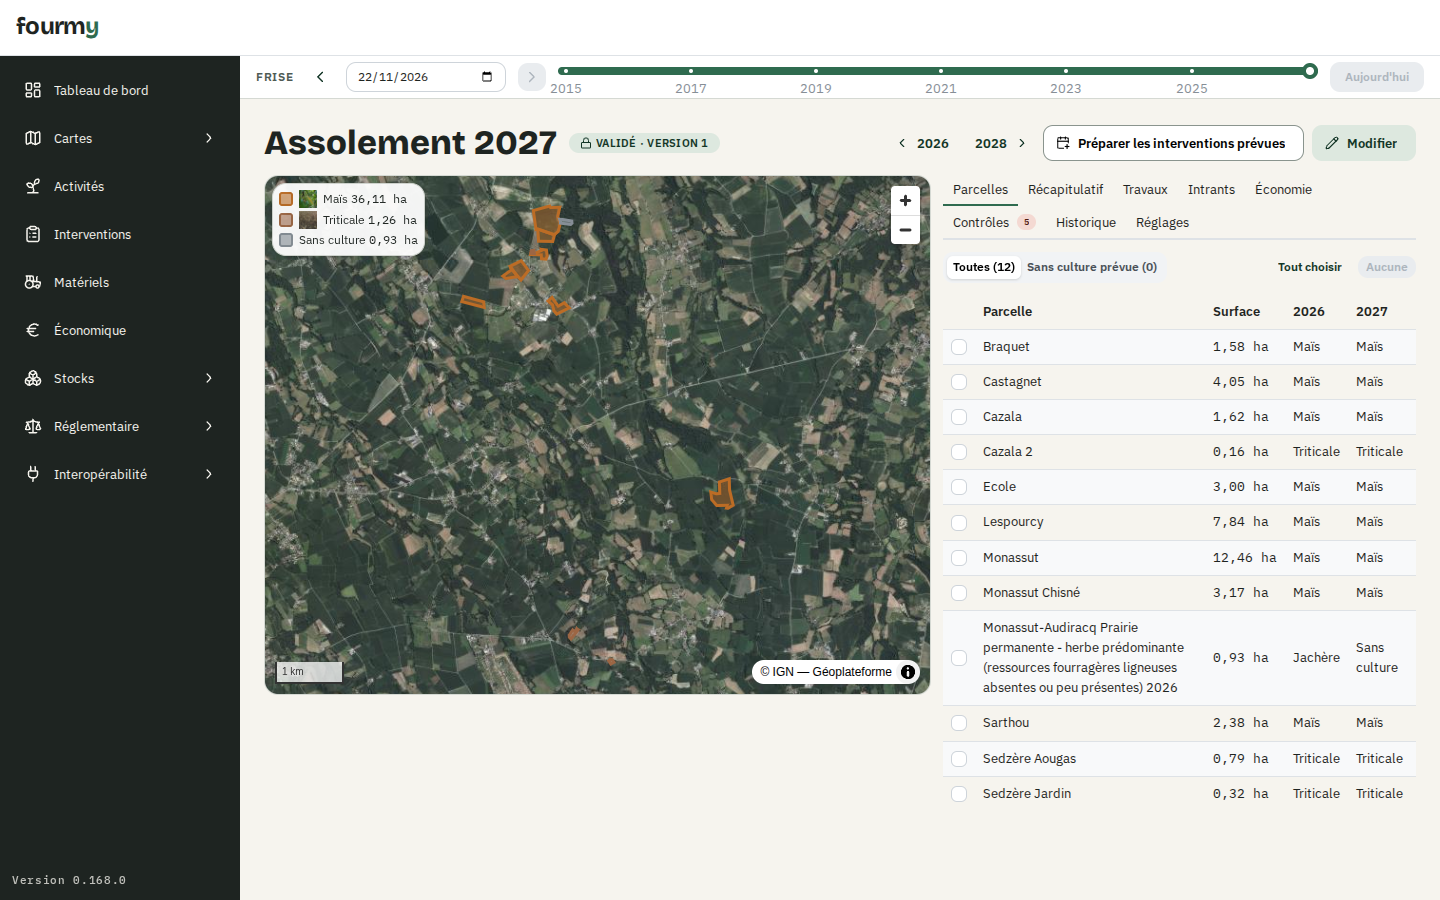
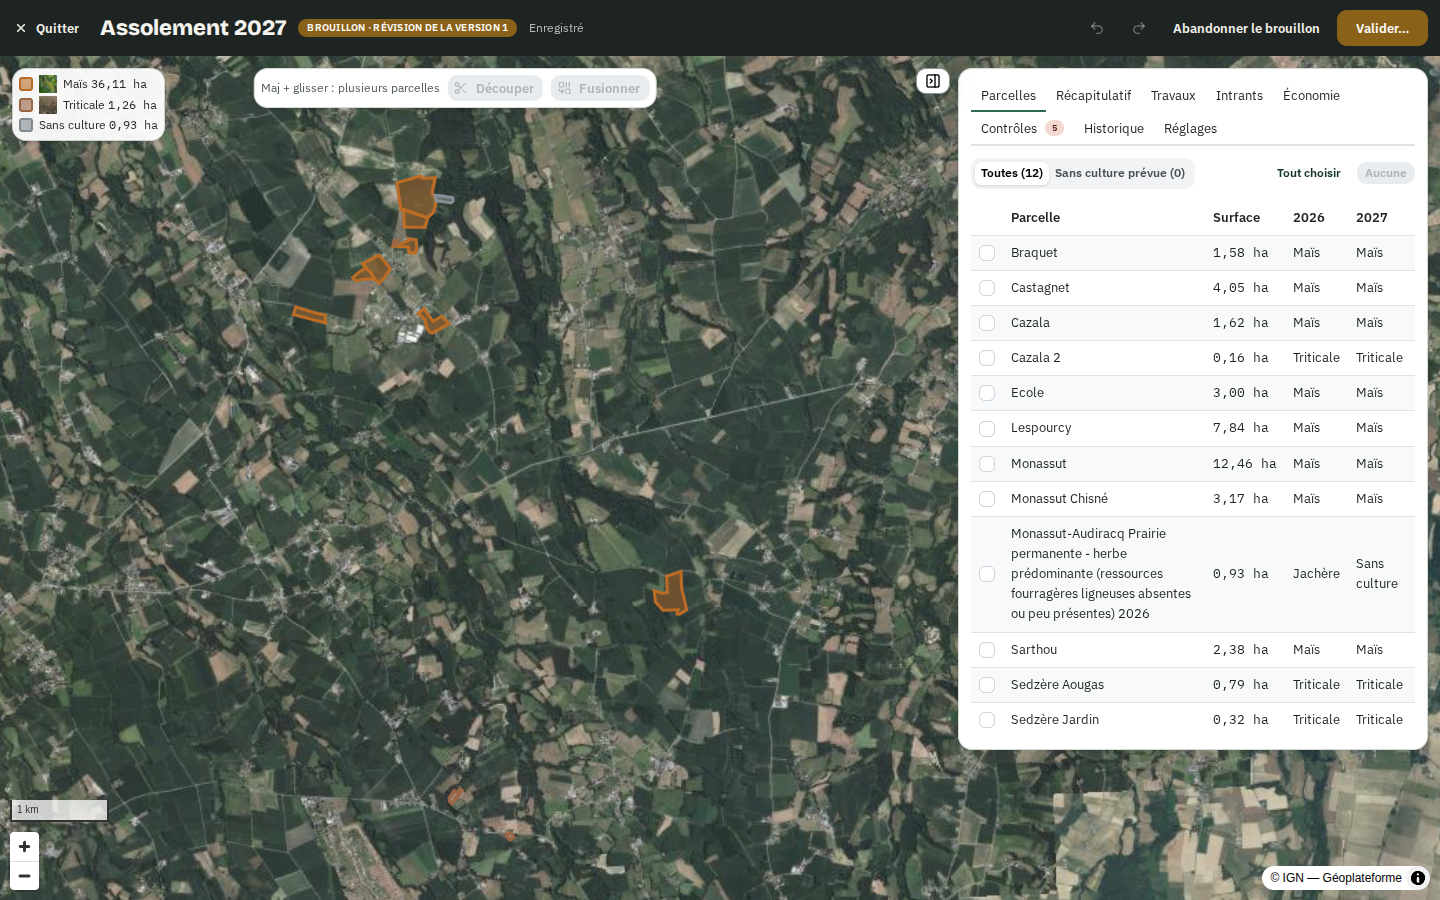
feat(site): capture de l'assolement en plein écran
Claude-Session: https://claude.ai/code/session_018cGHw3D9pmsxko84GCHn2h

diff --git a/apps/web/e2e/captures-accueil.spec.ts b/apps/web/e2e/captures-accueil.spec.ts
@@ -93,13 +93,19 @@ const anonymize = (page: Page) =>
     }
   }, process.env.CAPTURES_HIDE ?? "");
 
-test("assolement prévisionnel : carte et parcelles de la campagne suivante", async ({ page }) => {
+test("assolement prévisionnel : plein écran du brouillon de la campagne suivante", async ({ page }) => {
   test.setTimeout(120_000);
   await page.goto(PLAN);
-  await expect(page.getByText(/Assolement 2027/)).toBeVisible({ timeout: 30_000 });
-  await page.getByRole("tab", { name: "Parcelles" }).click();
+  await expect(page.getByText(/Assolement 2027/).first()).toBeVisible({ timeout: 30_000 });
+  // « Modifier » ouvre un brouillon de révision, en plein écran ; il est abandonné après la
+  // capture : la version validée reste celle de la ferme.
+  await page.getByRole("button", { name: "Modifier" }).click();
+  await expect(page.getByRole("region", { name: "Assolement 2027 en plein écran" })).toBeVisible({ timeout: 30_000 });
   await page.waitForTimeout(6000);
   await snap(page, "assolement");
+  await page.getByRole("button", { name: "Abandonner le brouillon" }).first().click();
+  await page.getByRole("dialog").getByRole("button", { name: "Abandonner" }).click();
+  await expect(page.getByRole("region", { name: "Assolement 2027 en plein écran" })).toBeHidden({ timeout: 30_000 });
 });
 
 test("temps de travaux : heures par semaine et pointes de la campagne", async ({ page }) => {

diff --git a/README.md b/README.md
@@ -25,7 +25,7 @@ Licence : AGPL-3.0. Site du projet : fourmy.org. Présentation : ekylibre.com.
 
 | Assolement prévisionnel | Temps de travaux | Marges prévisionnelles |
 |---|---|---|
-| [![Assolement de la campagne suivante sur la photo IGN, avec les contrôles de rotation](apps/site/src/assets/captures/assolement.png)](apps/site/src/assets/captures/assolement.png) | [![Heures de travail par semaine de la campagne prévue, pointes et capacité de la ferme](apps/site/src/assets/captures/temps-travaux.png)](apps/site/src/assets/captures/temps-travaux.png) | [![Onglet Économie de l'assolement : produit, charges et marge directe par activité](apps/site/src/assets/captures/marges.png)](apps/site/src/assets/captures/marges.png) |
+| [![Assolement de la campagne suivante en plein écran sur la photo IGN : découpe, fusion et cultures prévues](apps/site/src/assets/captures/assolement.png)](apps/site/src/assets/captures/assolement.png) | [![Heures de travail par semaine de la campagne prévue, pointes et capacité de la ferme](apps/site/src/assets/captures/temps-travaux.png)](apps/site/src/assets/captures/temps-travaux.png) | [![Onglet Économie de l'assolement : produit, charges et marge directe par activité](apps/site/src/assets/captures/marges.png)](apps/site/src/assets/captures/marges.png) |
 | Cultures, dérobées et couverts ; BCAE 7, délais de retour, bio et HVE contrôlés en direct | Itinéraires tirés de l'historique, barème BCMA, trajets OSRM, pointes | Produit, charges et marge directe par activité, prix de référence publics |
 
 ## Documentation
